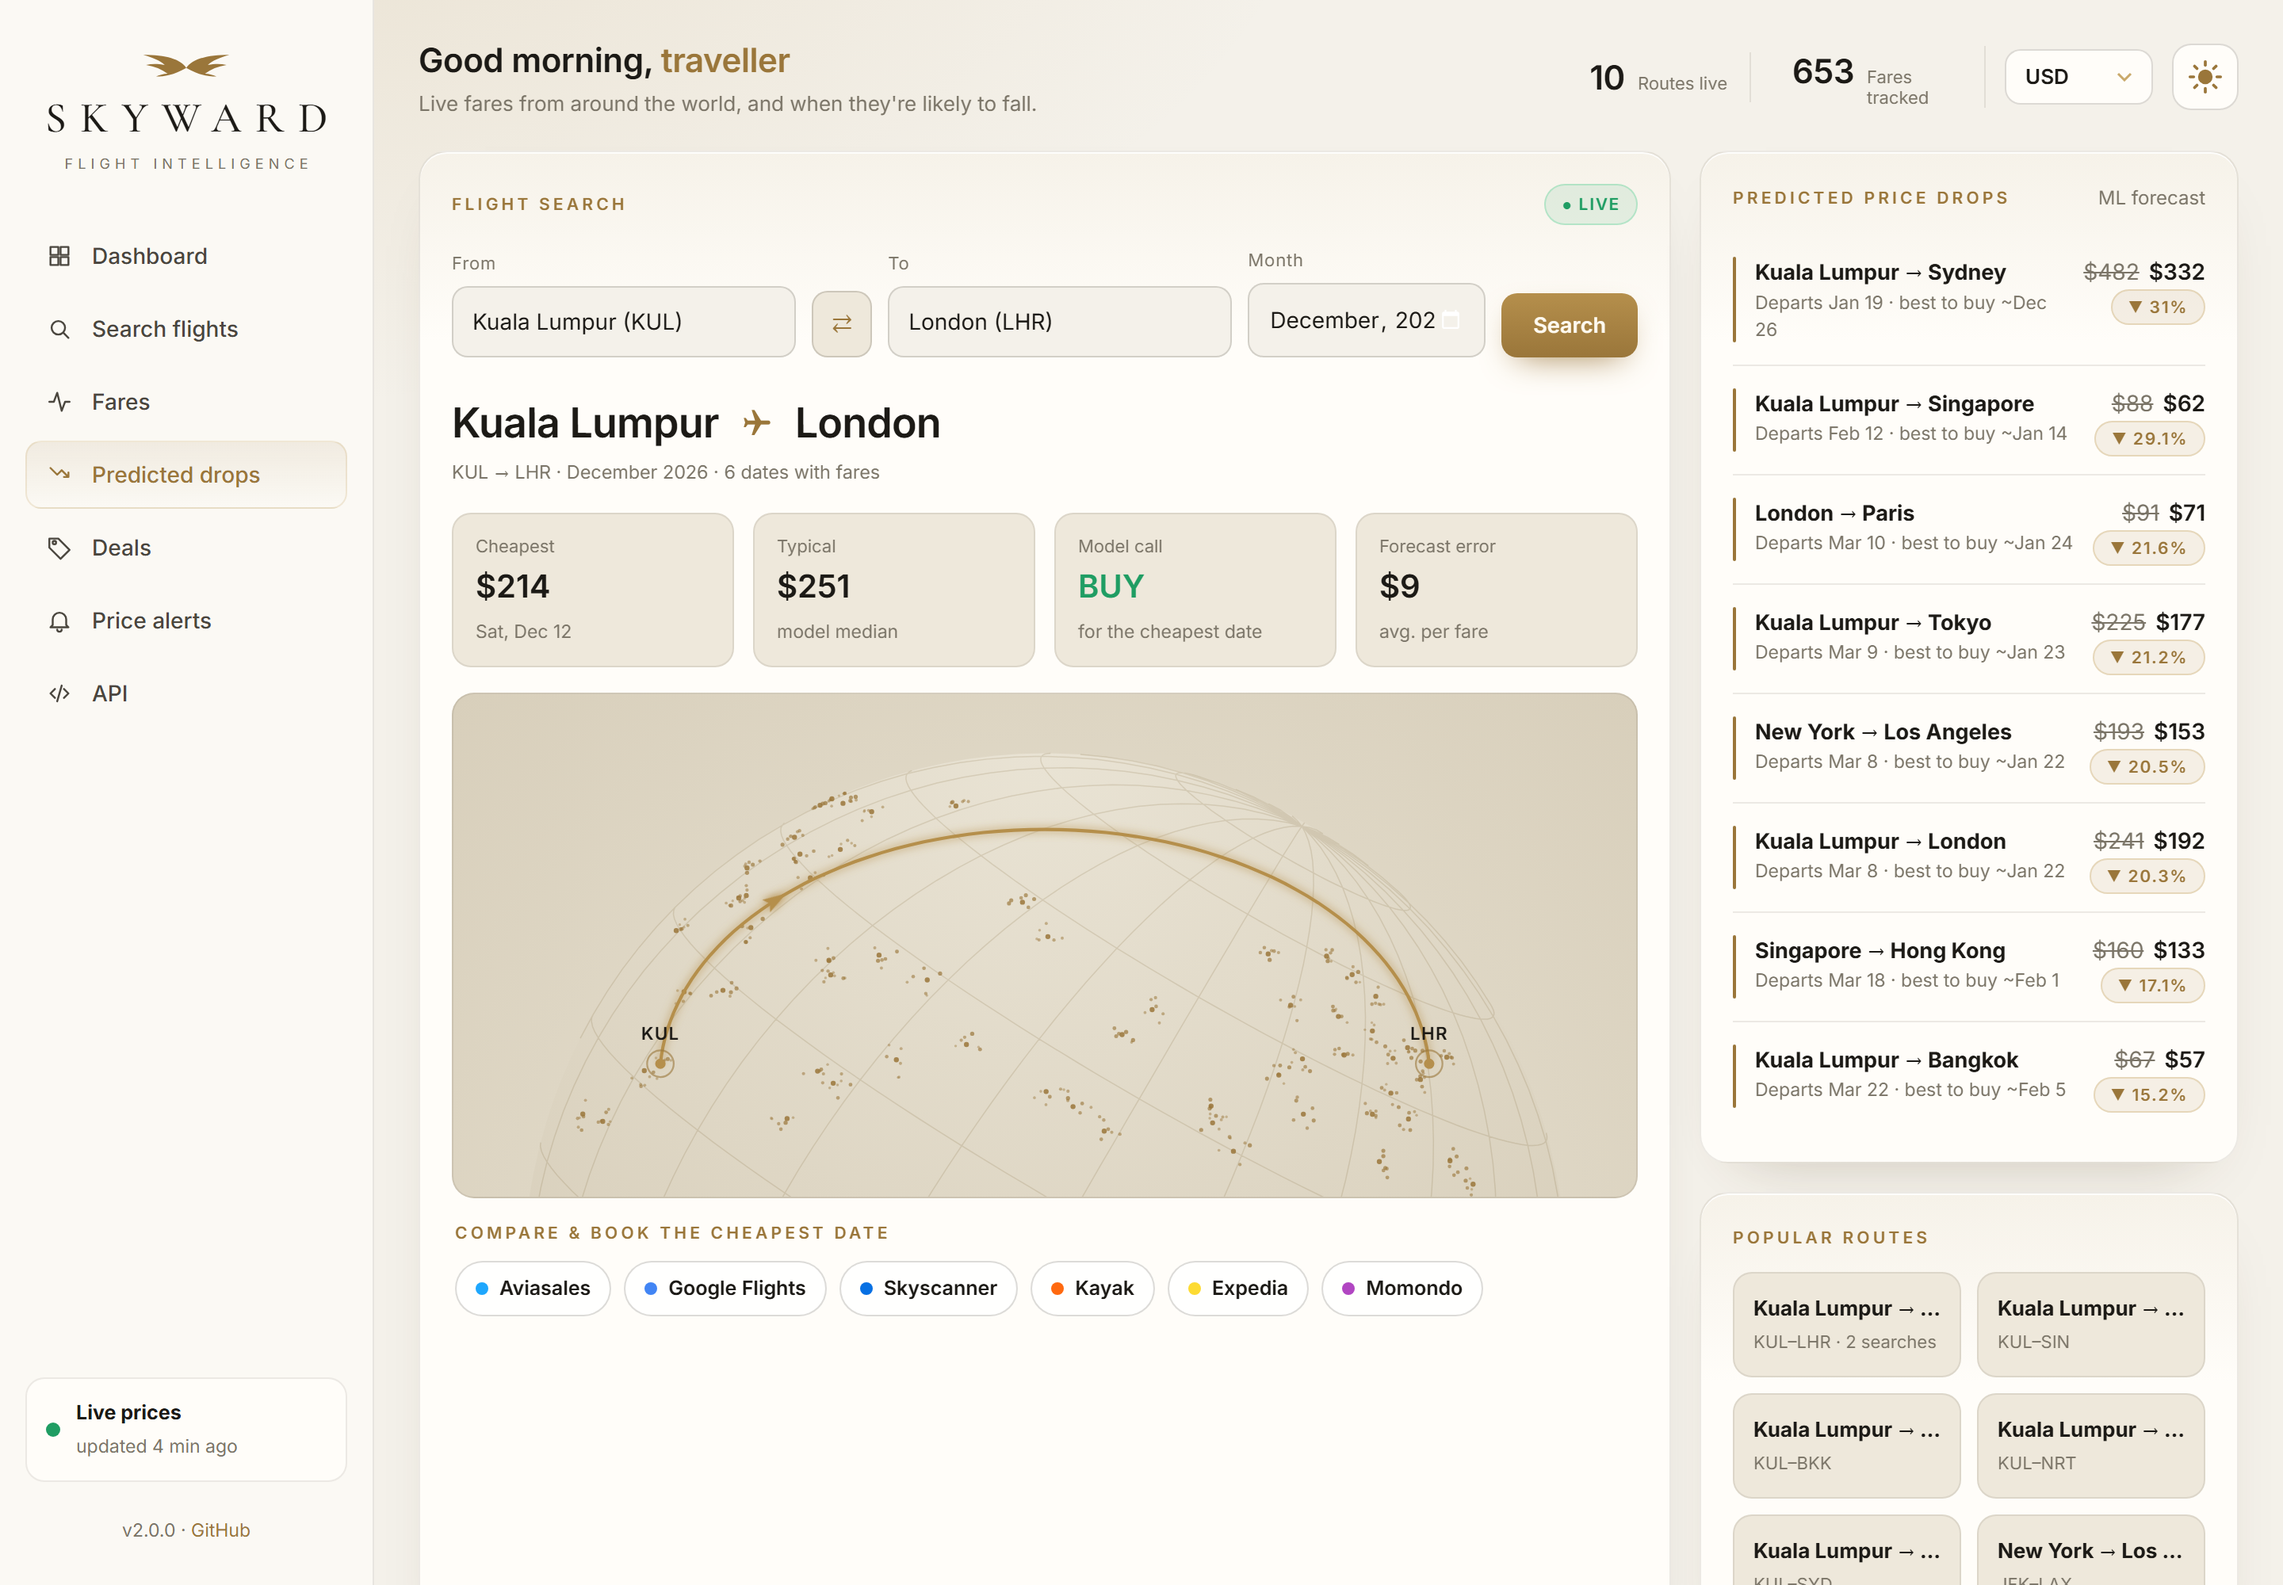
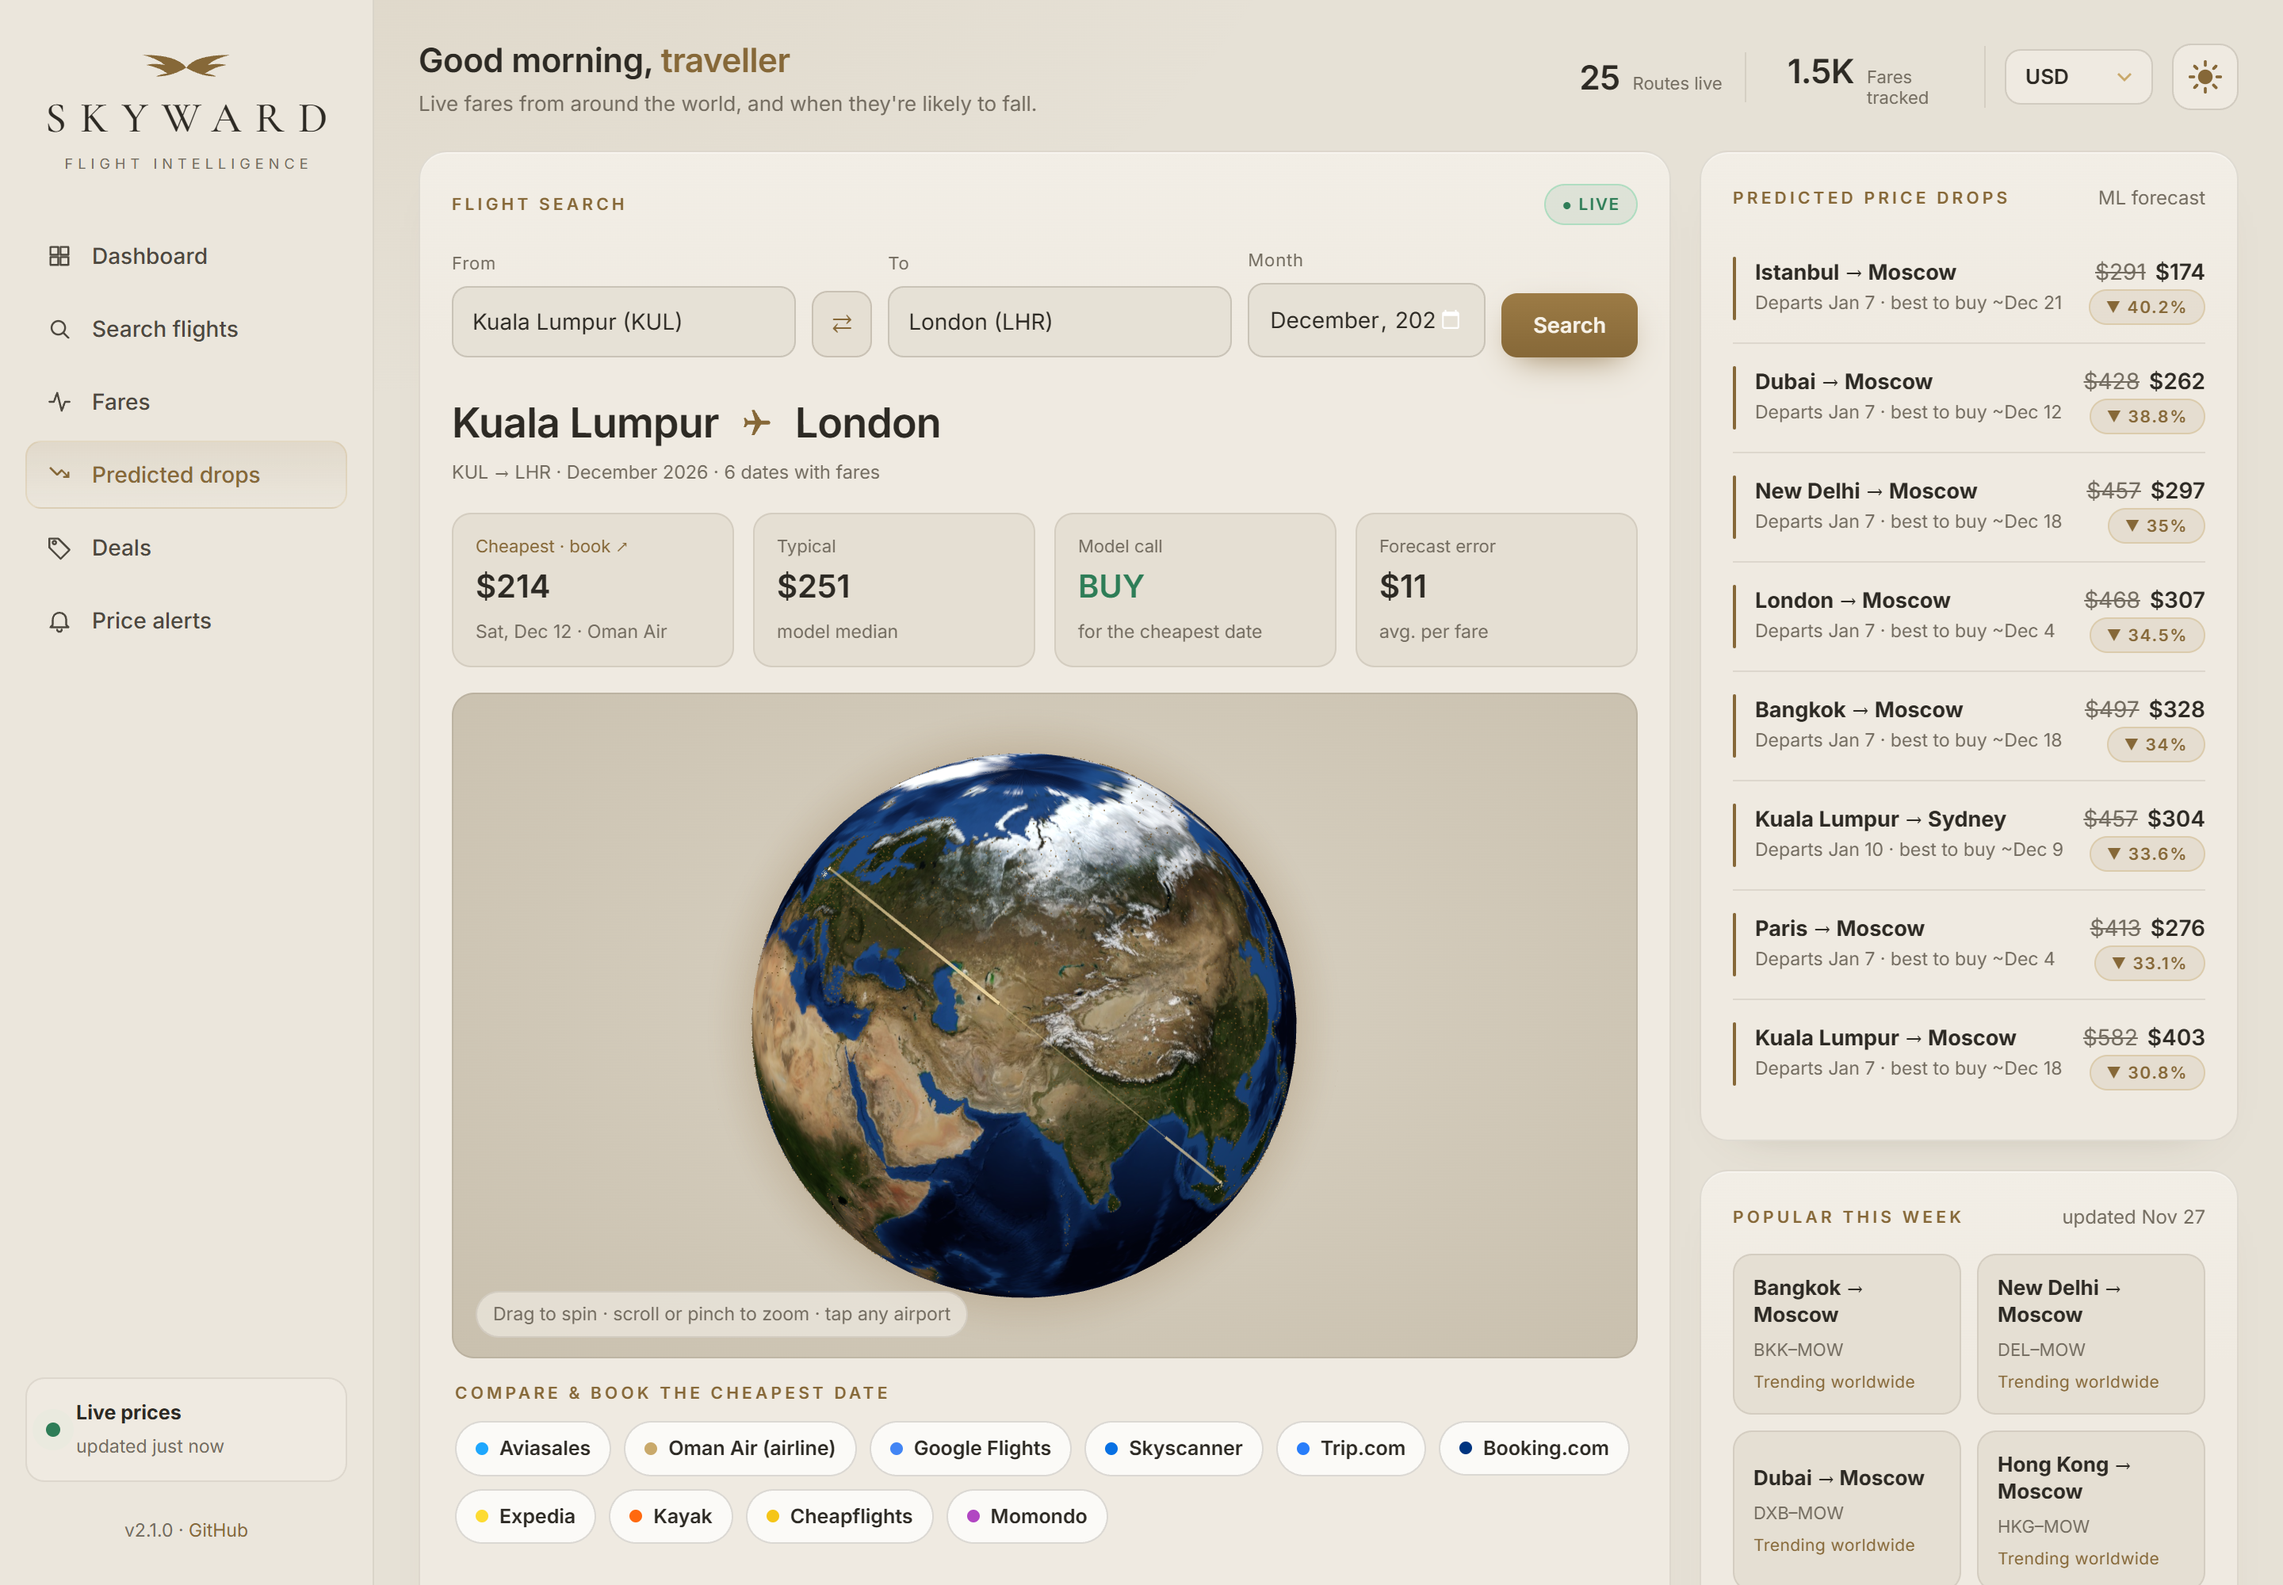
Popular routes: variety rules (one route per destination, two per origin); fresh screenshots

diff --git a/backend/app/ingest.py b/backend/app/ingest.py
@@ -150,6 +150,7 @@ def register_search(route: str) -> None:
 # ---- weekly popular routes: what Skyward users search + what the world flies ----
 HUBS = ["KUL", "SIN", "BKK", "HKG", "TYO", "SEL", "DXB", "LON", "PAR", "NYC", "LAX", "SYD", "IST", "DEL", "JKT"]
 POPULAR_SIZE = 12
+POPULAR_JOB = "popular-v2"   # bump to force a recompute after changing the ranking rules
 
 
 def compute_popular(directions=None) -> list[dict]:
@@ -174,7 +175,18 @@ def compute_popular(directions=None) -> list[dict]:
                 worldwide[f"{hub}-{dest}"] = 8 - i
     log.info("popular: %d worldwide routes, %d routes searched on Skyward this week", len(worldwide), len(users))
     scores = {code: 2 * users.get(code, 0) + worldwide.get(code, 0) for code in set(users) | set(worldwide)}
-    top = sorted(scores.items(), key=lambda kv: (-kv[1], kv[0]))[:POPULAR_SIZE]
+    # Variety: Aviasales demand leans towards a few destinations (e.g. Moscow), so keep at most one route
+    # per destination and two per origin; Skyward users' own searches are never filtered out.
+    top, per_dest, per_origin = [], {}, {}
+    for code, s in sorted(scores.items(), key=lambda kv: (-kv[1], kv[0])):
+        o, d = code.split("-")
+        if code not in users and (per_dest.get(d, 0) >= 1 or per_origin.get(o, 0) >= 2):
+            continue
+        top.append((code, s))
+        per_dest[d] = per_dest.get(d, 0) + 1
+        per_origin[o] = per_origin.get(o, 0) + 1
+        if len(top) == POPULAR_SIZE:
+            break
     rows = [{"code": code, "rank": i + 1, "score": float(s), "user_searches": int(users.get(code, 0)),
              "worldwide": code in worldwide, "updated": now} for i, (code, s) in enumerate(top) if s > 0]
     with db.connect() as c:
@@ -400,15 +412,15 @@ def run_refresh(train: bool = True) -> dict:
         fill_route_meta()
     except Exception as e:
         log.warning("route meta lookup failed: %s", e)
-    if travelpayouts.enabled() and db.try_acquire("popular", 7 * 86400 - 3600):  # weekly
+    if travelpayouts.enabled() and db.try_acquire(POPULAR_JOB, 7 * 86400 - 3600):  # weekly
         try:
             rows = compute_popular()
             if not any(r["worldwide"] for r in rows):
                 log.warning("popular routes: no worldwide data this time, will retry next refresh")
-                db.release("popular")
+                db.release(POPULAR_JOB)
         except Exception as e:
             log.warning("popular routes update failed: %s", e)
-            db.release("popular")
+            db.release(POPULAR_JOB)
     if travelpayouts.enabled():
         saved = fetch_live()
         out["fetched"] = sum(saved.values())

diff --git a/tests/test_api.py b/tests/test_api.py
@@ -185,6 +185,12 @@ def test_weekly_popular_routes():
         api = c.get("/api/routes").json()
         assert api[0]["code"] == "KUL-CDG" and "searches" in api[0]["reason"]
         assert "KUL-LON" in ingest.tracked_routes()
+        # variety: one destination can't take over the list, and each origin appears at most twice
+        rows = ingest.compute_popular(directions=lambda hub, client=None: ["MOW", "BKK", "TAS"])
+        dests = [r["code"][4:] for r in rows if r["worldwide"]]
+        assert len(dests) == len(set(dests))
+        origins = [r["code"][:3] for r in rows if r["worldwide"]]
+        assert max(origins.count(o) for o in set(origins)) <= 2
 
 
 def test_worldwide_search_any_route(monkeypatch):
